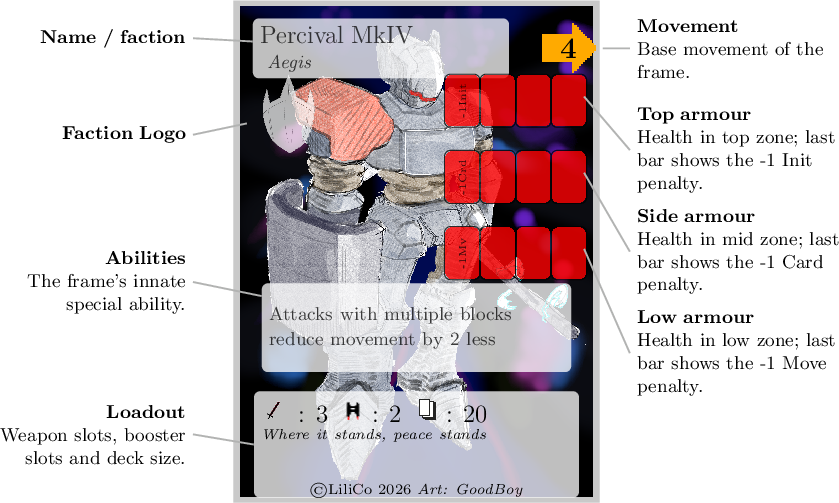
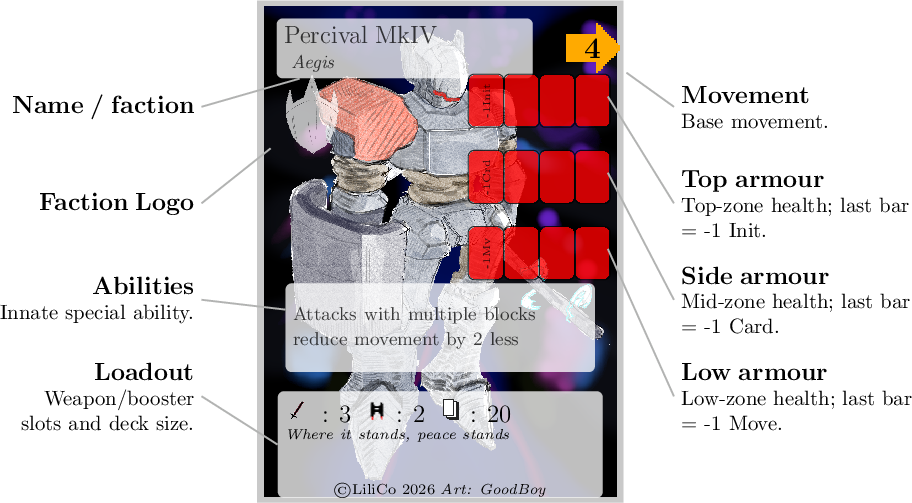
shield changes

diff --git a/generateCards.py b/generateCards.py
@@ -174,13 +174,13 @@ def createMacros():
             "\\newcommand{\\blockshieldfill}[3]{\\fill[#3!20, rounded corners=0.15cm] "
             "\\blockshieldpath{#1}{#2}{1.0}{1.0};}\n"
             "\\newcommand{\\blockshieldline}[3]{\\draw[draw=#3, line width=6pt, "
-            "rounded corners=0.15cm] \\blockshieldpath{#1}{#2}{1.0}{1.0};}\n"
+            "rounded corners=0.18cm] \\blockshieldpath{#1}{#2}{1.0}{1.0};}\n"
             "\\newcommand{\\blockshield}[3]{\\blockshieldfill{#1}{#2}{#3}\\blockshieldline{#1}{#2}{#3}}\n"
             "\\newcommand{\\superblockshield}[3]{%\n"
             "  \\draw[draw=#3!55!black, line width=4.7pt, rounded corners=0.15cm] "
             "\\blockshieldpath{#1}{#2}{1.18}{1.18};%\n"
             "  \\blockshieldfill{#1}{#2}{#3}%\n"
-            "  \\draw[draw=#3!55!black, line width=2.9pt, rounded corners=0.15cm] "
+            "  \\draw[draw=#3!55!black, line width=3.5pt, rounded corners=0.17cm] "
             "\\blockshieldpath{#1}{#2}{0.82}{0.82};%\n"
             "  \\blockshieldline{#1}{#2}{#3}}\n"
         )
@@ -432,32 +432,53 @@ def _aim_node(aim):
         return inner.split(".")[0]
     return None
 
+# Vertical layout of the callout labels. Rather than pinning each label to a
+# fixed y next to its target, the labels are spread evenly down each gutter with
+# a fixed pitch, centred on the card. A side with many labels therefore spills
+# above and below the card edges instead of being crammed alongside it, which
+# keeps the diagram far less cluttered and leaves room for larger text.
+CALLOUT_PITCH = 1.9       # cm between successive labels on one side
+CALLOUT_CENTER_Y = 5.0    # card vertical centre the stacks are balanced around
+
 def _render_callouts(callouts, present):
     """Draw labelled leader lines for every callout whose target node exists.
 
     ``callouts`` is a list of dicts (x, y, side, title, desc, aim). ``present``
     is the set of node names actually emitted for this card, so callouts for
-    optional elements (persistence, faction logo, ...) are skipped when absent."""
+    optional elements (persistence, faction logo, ...) are skipped when absent.
+    The per-callout ``y`` is only an ordering hint: labels are re-spaced evenly
+    down each gutter (extending past the card top and bottom when a side is
+    busy) so the leader lines stay legible."""
+    # Keep only callouts whose target exists, preserving the listed order.
+    shown = [c for c in callouts
+             if _aim_node(c["aim"]) is None or _aim_node(c["aim"]) in present]
+
+    # Assign an evenly spaced y per side, centred on the card so a busy side
+    # overflows symmetrically above and below the card rather than bunching up.
+    ys = {}
+    for side in ("left", "right"):
+        col = [c for c in shown if c["side"] == side]
+        top = CALLOUT_CENTER_Y + (len(col) - 1) * CALLOUT_PITCH / 2.0
+        for j, c in enumerate(col):
+            ys[id(c)] = top - j * CALLOUT_PITCH
+
     out = ""
-    for i, c in enumerate(callouts):
-        node = _aim_node(c["aim"])
-        if node is not None and node not in present:
-            continue
+    for i, c in enumerate(shown):
         anchor = "east" if c["side"] == "left" else "west"
         align = "right" if c["side"] == "left" else "left"
         name = f"callout{i}"
-        body = "\\textbf{" + c["title"] + "}"
+        body = "{\\large\\bfseries " + c["title"] + "}"
         if c.get("desc"):
             body += "\\\\" + c["desc"]
-        out += (f"\\node[anchor={anchor}, align={align}, text width=3.5cm, font=\\small] "
-                f"({name}) at ({c['x']},{c['y']}) {{{body}}};\n")
+        out += (f"\\node[anchor={anchor}, align={align}, text width=4cm, font=\\normalsize] "
+                f"({name}) at ({c['x']},{ys[id(c)]}) {{{body}}};\n")
         out += f"\\draw[thick, gray!60] ({name}.{anchor}) -- {c['aim']};\n"
     return out
 
-# Gutters the callout labels sit in, kept close to the card so each fragment
-# stays compact when \input into the rules document.
-LEFT_GUTTER = -0.4
-RIGHT_GUTTER = 8.2
+# Gutters the callout labels sit in. Pushed a little further out than the card
+# edge so the larger label text has breathing room from the artwork.
+LEFT_GUTTER = -0.7
+RIGHT_GUTTER = 8.6
 
 # Callouts for a weapon action card. atk_aim/block_aim/range_aim are coordinates
 # emitted at build time on the first zone that has that feature (see the annotate
@@ -465,47 +486,47 @@ RIGHT_GUTTER = 8.2
 # chosen card lacks.
 WEAPON_CALLOUTS = [
     {"x": LEFT_GUTTER, "y": 9.2, "side": "left",  "title": "Initiative",
-     "desc": "Turn priority; higher acts first.", "aim": "(initbox)"},
+     "desc": "Higher acts first.", "aim": "(initbox)"},
     {"x": LEFT_GUTTER, "y": 7.5, "side": "left",  "title": "Movement",
-     "desc": "Steps granted; green gains, red loses.", "aim": "(movebox)"},
+     "desc": "Steps: green gains, red loses.", "aim": "(movebox)"},
     {"x": LEFT_GUTTER, "y": 6.0, "side": "left",  "title": "Faction Logo",
      "desc": "", "aim": "(factionlogo)"},
     {"x": LEFT_GUTTER, "y": 4.2, "side": "left",  "title": "Card text",
-     "desc": "Abilities and status effects applied.", "aim": "(textbox)"},
+     "desc": "Abilities and status effects.", "aim": "(textbox)"},
     {"x": LEFT_GUTTER, "y": 1.6, "side": "left",  "title": "Group zones",
-     "desc": "Zones the whole weapon group can attack (red triangle) or block (blue square).", "aim": "(groupindicator)"},
+     "desc": "Zones the group can attack (red) or block (blue).", "aim": "(groupindicator)"},
     {"x": RIGHT_GUTTER, "y": 9.4, "side": "right", "title": "Name / faction",
      "desc": "", "aim": "(nameplate)"},
     {"x": RIGHT_GUTTER, "y": 8.3, "side": "right", "title": "Persistence",
-     "desc": "Turns this card stays in play once committed.", "aim": "(persistence)"},
+     "desc": "Turns it stays in play.", "aim": "(persistence)"},
     {"x": RIGHT_GUTTER, "y": 7.0, "side": "right", "title": "Attack",
-     "desc": "Damage that would be dealt to this zone.", "aim": "(atk_aim)"},
+     "desc": "Damage dealt to this zone.", "aim": "(atk_aim)"},
     {"x": RIGHT_GUTTER, "y": 5.8, "side": "right", "title": "Block",
-     "desc": "Attacks to this zone are blocked.", "aim": "(block_aim)"},
+     "desc": "Blocks attacks to this zone.", "aim": "(block_aim)"},
     {"x": RIGHT_GUTTER, "y": 3.9, "side": "right", "title": "Super block",
-     "desc": "Stronger block: this card is not discarded when it blocks, so it keeps blocking this zone.", "aim": "(superblock_aim)"},
+     "desc": "Blocks without discarding; keeps blocking.", "aim": "(superblock_aim)"},
     {"x": RIGHT_GUTTER, "y": 3.1, "side": "right", "title": "Range",
-     "desc": "Range of this zone's attack.", "aim": "(range_aim)"},
+     "desc": "This zone's attack range.", "aim": "(range_aim)"},
     {"x": RIGHT_GUTTER, "y": 1.5, "side": "right", "title": "Set info",
-     "desc": "Faction, card type, weapon group, flavour text.", "aim": "(setinfo)"},
+     "desc": "Faction, type, group, flavour.", "aim": "(setinfo)"},
 ]
 
 # Callouts for a pilot card (no attack zones).
 PILOT_CALLOUTS = [
     {"x": LEFT_GUTTER, "y": 9.0, "side": "left",  "title": "Initiative",
-     "desc": "Turn priority; higher acts first.", "aim": "(initbox)"},
+     "desc": "Higher acts first.", "aim": "(initbox)"},
     {"x": LEFT_GUTTER, "y": 7.3, "side": "left",  "title": "Movement",
-     "desc": "Steps granted; green gains, red loses.", "aim": "(movebox)"},
+     "desc": "Steps: green gains, red loses.", "aim": "(movebox)"},
     {"x": LEFT_GUTTER, "y": 5.6, "side": "left",  "title": "Faction Logo",
      "desc": "", "aim": "(factionlogo)"},
     {"x": LEFT_GUTTER, "y": 3.4, "side": "left",  "title": "Card text",
-     "desc": "Effect applied by this card.", "aim": "(textbox)"},
+     "desc": "This card's effect.", "aim": "(textbox)"},
     {"x": RIGHT_GUTTER, "y": 9.2, "side": "right", "title": "Name / faction",
      "desc": "", "aim": "(nameplate)"},
     {"x": RIGHT_GUTTER, "y": 7.6, "side": "right", "title": "Persistence",
-     "desc": "Turns this card stays in play once committed.", "aim": "(persistence)"},
+     "desc": "Turns it stays in play.", "aim": "(persistence)"},
     {"x": RIGHT_GUTTER, "y": 2.0, "side": "right", "title": "Set info",
-     "desc": "Faction, card type and flavour.", "aim": "(setinfo)"},
+     "desc": "Faction, type, flavour.", "aim": "(setinfo)"},
 ]
 
 # Callouts for a frame datasheet. Armour rows are drawn right-to-left from x=7,
@@ -516,48 +537,48 @@ FRAME_CALLOUTS = [
     {"x": LEFT_GUTTER, "y": 7.3, "side": "left",  "title": "Faction Logo",
      "desc": "", "aim": "(frame_logo)"},
     {"x": LEFT_GUTTER, "y": 4.4, "side": "left",  "title": "Abilities",
-     "desc": "The frame's innate special ability.", "aim": "(frame_ability)"},
+     "desc": "Innate special ability.", "aim": "(frame_ability)"},
     {"x": LEFT_GUTTER, "y": 1.4, "side": "left",  "title": "Loadout",
-     "desc": "Weapon slots, booster slots and deck size.", "aim": "(bottom_box.west)"},
+     "desc": "Weapon/booster slots and deck size.", "aim": "(bottom_box.west)"},
     {"x": RIGHT_GUTTER, "y": 9.0, "side": "right", "title": "Movement",
-     "desc": "Base movement of the frame.", "aim": "(frame_move)"},
+     "desc": "Base movement.", "aim": "(frame_move)"},
     {"x": RIGHT_GUTTER, "y": 7.0, "side": "right", "title": "Top armour",
-     "desc": "Health in top zone; last bar shows the -1 Init penalty.", "aim": "(7.3,8.05)"},
+     "desc": "Top-zone health; last bar = -1 Init.", "aim": "(7.3,8.05)"},
     {"x": RIGHT_GUTTER, "y": 5.0, "side": "right", "title": "Side armour",
-     "desc": "Health in mid zone; last bar shows the -1 Card penalty.", "aim": "(7.3,6.55)"},
+     "desc": "Mid-zone health; last bar = -1 Card.", "aim": "(7.3,6.55)"},
     {"x": RIGHT_GUTTER, "y": 3.0, "side": "right", "title": "Low armour",
-     "desc": "Health in low zone; last bar shows the -1 Move penalty.", "aim": "(7.3,5.05)"},
+     "desc": "Low-zone health; last bar = -1 Move.", "aim": "(7.3,5.05)"},
 ]
 
 # Callouts for a drone card: a weapon-style card that also fields a persistent
 # unit with its own health bar (drone_health) and movement (drone_move).
 DRONE_CALLOUTS = [
     {"x": LEFT_GUTTER, "y": 9.3, "side": "left",  "title": "Initiative",
-     "desc": "Turn priority; higher acts first.", "aim": "(initbox)"},
+     "desc": "Higher acts first.", "aim": "(initbox)"},
     {"x": LEFT_GUTTER, "y": 8.0, "side": "left",  "title": "Movement",
-     "desc": "Steps granted when played.", "aim": "(movebox)"},
+     "desc": "Steps when played.", "aim": "(movebox)"},
     {"x": LEFT_GUTTER, "y": 6.7, "side": "left",  "title": "Faction Logo",
      "desc": "", "aim": "(factionlogo)"},
     {"x": LEFT_GUTTER, "y": 5.4, "side": "left",  "title": "Drone health",
-     "desc": "The drone's hit points.", "aim": "(drone_health)"},
+     "desc": "Drone hit points.", "aim": "(drone_health)"},
     {"x": LEFT_GUTTER, "y": 4.1, "side": "left",  "title": "Drone movement",
-     "desc": "The drone's move each turn.", "aim": "(drone_move)"},
+     "desc": "Drone move per turn.", "aim": "(drone_move)"},
     {"x": LEFT_GUTTER, "y": 2.4, "side": "left",  "title": "Card text",
-     "desc": "Abilities and effects applied.", "aim": "(textbox)"},
+     "desc": "Abilities and effects.", "aim": "(textbox)"},
     {"x": RIGHT_GUTTER, "y": 9.4, "side": "right", "title": "Name / faction",
      "desc": "", "aim": "(nameplate)"},
     {"x": RIGHT_GUTTER, "y": 8.2, "side": "right", "title": "Persistence",
-     "desc": "Rounds it persists in play.", "aim": "(persistence)"},
+     "desc": "Rounds it persists.", "aim": "(persistence)"},
     {"x": RIGHT_GUTTER, "y": 6.8, "side": "right", "title": "Attack",
-     "desc": "Damage the drone deals to this zone.", "aim": "(atk_aim)"},
+     "desc": "Damage dealt to this zone.", "aim": "(atk_aim)"},
     {"x": RIGHT_GUTTER, "y": 5.2, "side": "right", "title": "Block",
-     "desc": "Attacks to this zone are blocked when the card is played.", "aim": "(block_aim)"},
+     "desc": "Blocks attacks to this zone.", "aim": "(block_aim)"},
     {"x": RIGHT_GUTTER, "y": 4.1, "side": "right", "title": "Super block",
-     "desc": "The doubled outline marks a stronger block: this card is not discarded when it blocks, so it keeps blocking this zone.", "aim": "(superblock_aim)"},
+     "desc": "Doubled outline: blocks without discarding.", "aim": "(superblock_aim)"},
     {"x": RIGHT_GUTTER, "y": 3.0, "side": "right", "title": "Range",
-     "desc": "Range of the drone's attack.", "aim": "(range_aim)"},
+     "desc": "Drone's attack range.", "aim": "(range_aim)"},
     {"x": RIGHT_GUTTER, "y": 1.8, "side": "right", "title": "Set info",
-     "desc": "Faction, card type, group, flavour.", "aim": "(setinfo)"},
+     "desc": "Faction, type, group, flavour.", "aim": "(setinfo)"},
 ]
 
 

diff --git a/rules/rules.tex b/rules/rules.tex
@@ -326,11 +326,11 @@ The priority marker then moves one step anticlockwise.
     \par A melee Weapon Card
 \end{figure*}
 
-\begin{figure*}[htbp]
-  \centering
-    \resizebox{\textwidth}{!}{\input{../build/rules_weapon_superblock.tex}}
-    \par A Weapon Card with a super block (note the doubled shield outline)
-\end{figure*}
+% \begin{figure*}[htbp]
+%   \centering
+%     \resizebox{\textwidth}{!}{\input{../build/rules_weapon_superblock.tex}}
+%     \par A Weapon Card with a super block (note the doubled shield outline)
+% \end{figure*}
 
 \begin{figure*}[htbp]
     \centering
@@ -385,7 +385,6 @@ In the planning phase each frame drew 5 cards and set 2 face down:
     \end{terrainscene}
   \end{minipage}\hfill
   \begin{minipage}[c]{0.50\textwidth}
-    \small\textbf{Scene 1 --- Ripper opens fire}\par\smallskip
     With the highest initiative on the board (5), RipperSmasher resolves his ranged \emph{From the Hip}
     first. He moves \textbf{2 steps} (base 3 - 1) to the
     middle of the bottom row. From there the raised terrain on the left blocks his line
@@ -414,8 +413,6 @@ In the planning phase each frame drew 5 cards and set 2 face down:
     \end{terrainscene}
   \end{minipage}\hfill
   \begin{minipage}[c]{0.50\textwidth}
-    \small\textbf{Scene 2 --- Kuwagata takes the high ground}\par\smallskip
-    \footnotesize
     Next, at initiative 4, Kuwagata resolves \emph{Rising Cut}, with which he can move 3 (base 4 - 1). He moves onto the raised terrain  beside Ripper. That costs
     \textbf{3 movement}: two tiles down the wall and one extra to climb up to elevation~1. \emph{Rising Cut}'s single
      \textbf{low} \smallcut attack strikes a defender one level lower, so it is moved \emph{up} one bracket to \textbf{mid}.
@@ -442,8 +439,7 @@ In the planning phase each frame drew 5 cards and set 2 face down:
     \end{terrainscene}
   \end{minipage}\hfill
   \begin{minipage}[c]{0.50\textwidth}
-    \small\textbf{Scene 3 --- Guard break}\par\smallskip
-    \footnotesize
+
     Next, at initiative 3, Kuwagata resolves \emph{Split} which has -2mv so he can move 2. He steps down off the terrain (moving \emph{down} costs no extra
     movement) and circles \textbf{2 steps} around Ripper to his far side, ending level with him.
     \emph{Split} hits \textbf{high} and \textbf{mid}. RipperSmasher has to reveal his face down \emph{Fullbore} to block this, and it is then discarded and will not resolve this round.
@@ -505,16 +501,16 @@ Some attacks summon drones. A drone is a token that will take the action on the 
 The drone has a health stat indicated on the card that summoned it, which should stay in play until the drone is destroyed.
 The drone, like other tokens, cannot block.
 
-\begin{figure}[htb]
+\begin{figure*}[htb]
   \centering
   \resizebox{\textwidth/2}{!}{\input{../build/rules_drone.tex}}
   \par Drone Card
-\end{figure}
+\end{figure*}
 
 
 
 \section{Deck Construction}
-Each mobile suit must have a deck.
+Each frame must have a deck.
 To construct a deck, you first choose the frame.
 That frame has a stats card with the following information:
 
@@ -541,8 +537,11 @@ To build the deck, you can have:
 \begin{itemize}
 \item Max 4 pilot cards, all from the same pilot, no duplicates
 \item Max X booster cards, where X is the frame's booster count (duplicates allowed)
-\item Up to N weapons where N is the frame's weapon count. Each weapon is a set of 4 attack cards. For each weapon slot you can include up to 1 of each card in that weapon.
-\item 1 of each of the generic cards 
+\item Up to N weapons where N is the frame's weapon count. Each weapon is a set of up to 4 attack cards.
+ For each weapon slot you can include up to 1 of each card in that weapon.
+ Drones take up a weapon slot
+\item Any number of the basic cards
+\item 1 of each of the frame cards for your faction 
 \end{itemize}
 
 If any card has a faction logo on it, it can only be in a deck for a frame of that faction.
@@ -631,7 +630,11 @@ count & type & group & cards \\
     \large{\textbf{The Revolution}}\\[0.5em]
     \includegraphics[width=\linewidth/3]{../pictures/RevLogo_light.png}
     \includegraphics[width=\linewidth/3]{../pictures/RevLogo.png}\\[0.5em]
-    Based in Ground Zero, the Revolution consits of the people who  TODO
+    Based in Ground Zero, the Revolution consits of the dregs of society that others would ignore.
+    Mutants and backfires from dodgy Net-connectivity are common sights, and they are tired of
+    society turning a blind eye. They'll make sure that they are seen, and they'll burn down this
+    rotten society to make a space where everone can benefit from the net - if there is anything left 
+    of it after they are done.
     ~\\[0.5em]
   \end{minipage}
   \hfill
@@ -640,6 +643,12 @@ count & type & group & cards \\
     \large{\textbf{The Collective}}\\[0.5em]
     \includegraphics[width=\linewidth/3]{../pictures/CollectiveLogo_light.png}
     \includegraphics[width=\linewidth/3]{../pictures/CollectiveLogo.png}\\[0.5em]
+    The Collective believe that the Net is a departure from Humanity's rooots, and that what people need
+    is to reconnect to nature, rejecting the modification so common elsewhere, preferring to be Natural. 
+    Their Gardens are wonders of biotechnology, oasises in the concrete jungle.
+    They defend their needs with giant biotech marvels that fuse directly with the pilot and can stand toe to
+    toe with any frame. There is a question as to how they made such sudden advances in biotech, however.
+    
     ~\\[0.5em]
   \end{minipage}
 \end{figure*}
